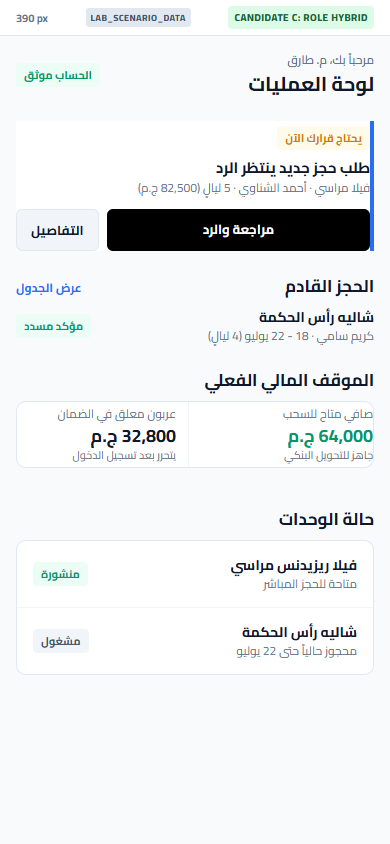
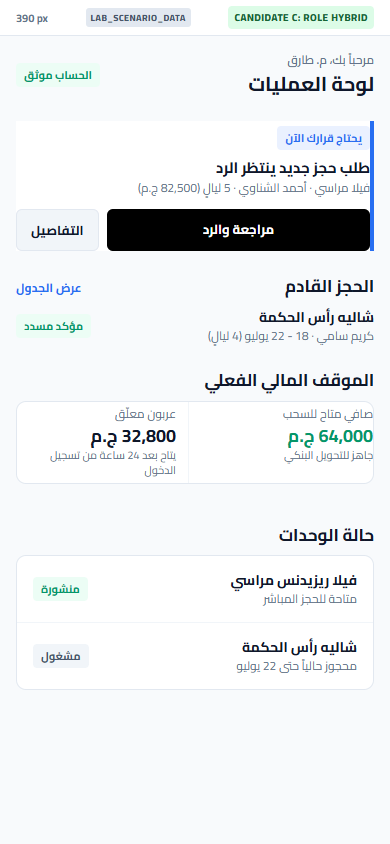
fix(design): repair Phase 4E evidence and product truth

diff --git a/DESIGN_SYSTEM/PILOTS/structural-system-pilot-01/index.html b/DESIGN_SYSTEM/PILOTS/structural-system-pilot-01/index.html
@@ -45,8 +45,8 @@
       --border-divider: #F1F5F9;
       --status-success: #059669;
       --status-success-bg: #ECFDF5;
-      --status-pending: #D97706;
-      --status-pending-bg: #FFFBEB;
+      --status-pending: var(--accent-blue);
+      --status-pending-bg: var(--accent-blue-soft);
       --status-danger: #DC2626;
       --status-danger-bg: #FEF2F2;
 
@@ -233,6 +233,7 @@
     body.embed .viewport-frame.vp-390 { width: 390px !important; min-width: 390px !important; max-width: 390px !important; }
     body.embed .viewport-frame.vp-430 { width: 430px !important; min-width: 430px !important; max-width: 430px !important; }
     body.embed .viewport-frame.vp-1440 { width: 1440px !important; min-width: 1440px !important; max-width: 1440px !important; }
+    body.embed.scroll-quote .viewport-frame { top: -550px !important; }
 
     /* Frame Info Header (Simulation info) */
     .frame-status-bar {
@@ -864,9 +865,9 @@
               <div class="t-supporting" style="font-size: 11px;">جاهز للتحويل البنكي</div>
             </div>
             <div style="padding: 4px 0; border-right: 1px solid var(--border-divider); padding-right: 12px;">
-              <div class="t-supporting">عربون معلق في الضمان</div>
+              <div class="t-supporting">عربون معلّق</div>
               <div class="t-numeric" style="font-size: 18px; margin-top: 2px;">32,800 ج.م</div>
-              <div class="t-supporting" style="font-size: 11px;">يتحرر بعد تسجيل الدخول</div>
+              <div class="t-supporting" style="font-size: 11px;">يتاح بعد 24 ساعة من تسجيل الدخول</div>
             </div>
           </div>
         </div>
@@ -1078,10 +1079,11 @@
     let currentScale = '100';
     let isStress = false;
     let isEmbed = false;
+    let isScrollQuote = false;
 
     function applyState() {
       // Body Candidate class
-      document.body.className = `cand-${currentCandidate} scale-${currentScale}${isEmbed ? ' embed' : ''}`;
+      document.body.className = `cand-${currentCandidate} scale-${currentScale}${isEmbed ? ' embed' : ''}${isScrollQuote ? ' scroll-quote' : ''}`;
 
       // Candidate button states
       document.querySelectorAll('[data-candidate]').forEach(btn => {
@@ -1182,6 +1184,7 @@
     if (params.get('scale')) currentScale = params.get('scale');
     if (params.get('stress')) isStress = (params.get('stress') === '1' || params.get('stress') === 'true');
     if (params.get('embed') === '1') isEmbed = true;
+    if (params.get('scroll') === 'quote') isScrollQuote = true;
     if (params.get('radius')) {
       document.documentElement.style.setProperty('--custom-radius', `${params.get('radius')}px`);
     }

diff --git a/DESIGN_SYSTEM/PILOTS/structural-system-pilot-01/EVIDENCE_MANIFEST.md b/DESIGN_SYSTEM/PILOTS/structural-system-pilot-01/EVIDENCE_MANIFEST.md
@@ -31,9 +31,9 @@
 | 16 | `stress_text_scale_200.png` | Customer | C | 390×844 | 200% | Normal | True 200% text-scale stress test. Cairo Profile B scales to 2× size; words wrap gracefully onto multiple lines; zero text clipping or container overflow. | PASS |
 | 17 | `stress_long_arabic_390.png` | Customer | C | 390×844 | 100% | Stress | Extreme Arabic copy stress: 4-line property title, multi-line destination string, 37,000 ج.م nightly price, long description. Layout handles extreme copy smoothly. | PASS |
 | 18 | `stress_reflow_360_width.png` | Owner | C | 360×800 | 100% | Stress | Owner queue under 360px width with stress copy and multi-line metadata. Action buttons reflow without horizontal clipping or content trapping; controlled Web reflow preserved visible layout; native touch target acceptance (~44pt iOS / ~48dp Android) is not established by this Web evidence and is `DEFERRED_TO_4I`. | PASS |
-| 19 | `radius_comparison_10_customer_390.png` | Customer | C | 390×844 | 100% | Normal | Bounded radius comparison: Customer quote container at 10px radius. Demonstrates valid close alternative with slightly crisper geometry. | EVALUATED_COMPARATOR |
-| 20 | `radius_comparison_12_customer_390.png` | Customer | C | 390×844 | 100% | Normal | Bounded radius comparison: Customer quote container at 12px radius. Balanced provisional system tie-breaker providing comfortable contour distinct from 6px buttons and 8px fields without generic rounded-SaaS bubbling. | PASS (Selected 12px Provisional) |
-| 21 | `radius_comparison_16_customer_390.png` | Customer | C | 390×844 | 100% | Normal | Bounded radius comparison: Customer quote container at 16px radius. Demonstrates materially rounder, generic consumer SaaS bubble appearance. | EVALUATED_COMPARATOR |
+| 19 | `radius_comparison_10_customer_390.png` | Customer | C | 390×844 | 100% | Normal | Bounded radius comparison: Customer quote container at 10px radius (scrolled focus via `scroll=quote` targeting the price quote container). Demonstrates valid close alternative with slightly crisper geometry. | EVALUATED_COMPARATOR |
+| 20 | `radius_comparison_12_customer_390.png` | Customer | C | 390×844 | 100% | Normal | Bounded radius comparison: Customer quote container at 12px radius (`CUSTOMER_RADIUS_TARGET: BOOKING / PRICE QUOTE STRUCTURAL CONTAINER`). Balanced provisional system tie-breaker providing comfortable contour distinct from 6px buttons and 8px fields without generic rounded-SaaS bubbling. | PASS (Selected 12px Provisional) |
+| 21 | `radius_comparison_16_customer_390.png` | Customer | C | 390×844 | 100% | Normal | Bounded radius comparison: Customer quote container at 16px radius (`CUSTOMER_RADIUS_TARGET: BOOKING / PRICE QUOTE STRUCTURAL CONTAINER`). Demonstrates materially rounder, generic consumer SaaS bubble appearance. | EVALUATED_COMPARATOR |
 | 22 | `radius_comparison_10_owner_390.png` | Owner | C | 390×844 | 100% | Normal | Bounded radius comparison: Owner grouped container at 10px radius. Valid close alternative; compact density with slightly sharper corner geometry. | EVALUATED_COMPARATOR |
 | 23 | `radius_comparison_12_owner_390.png` | Owner | C | 390×844 | 100% | Normal | Bounded radius comparison: Owner grouped container at 12px radius. Balanced provisional system tie-breaker; clean interior row margins; comfortable contour within 16px page margins. | PASS (Selected 12px Provisional) |
 | 24 | `radius_comparison_16_owner_390.png` | Owner | C | 390×844 | 100% | Normal | Bounded radius comparison: Owner grouped container at 16px radius. Materially rounder; higher corner encroachment on dense repeated list rows. | EVALUATED_COMPARATOR |
@@ -54,3 +54,7 @@
    Pilot rendering reference values (`#FFFFFF`, `#E2E8F0`, `#F8FAFC`) are `CONTROLLED_WEB_PILOT_RENDERING_REFERENCE` only; exact neutral tokens remain `OPEN`.
 6. **Bounded Radius Evaluation (10px vs 12px vs 16px): PASSED.**
    Empirical artifacts 19–24 demonstrate that 10px is a valid close alternative, 12px is a balanced provisional system tie-breaker providing comfortable contour distinct from 6px buttons and 8px fields without generic rounded-SaaS bubbling, while 16px is materially rounder with higher generic-SaaS styling risk in repeated operational groups. Reversible implementation detail; native acceptance deferred to Phase 4I (`NO_MATERIAL_FOUNDER_DECISION_REQUIRED: YES`). Closed as `SYSTEM-EVALUATED PROVISIONAL STRUCTURAL_CONTAINER_RADIUS`.
+7. **Pending Status Badge Treatment: PASSED.**
+   Restrained soft-blue container treatment (`var(--accent-blue-soft)` background with `var(--accent-blue)` text) replaces legacy amber/yellow badge fills across all Owner Home, Owner Queue, and Admin review views. Strictly enforces Founder rule prohibiting yellow/amber/orange boxed UI containers by default.
+8. **Owner Financial Summary Truth: PASSED.**
+   Owner wallet displays truthful 24-hour post-check-in release schedule ("يتاح بعد 24 ساعة من تسجيل الدخول") and truthful state wording ("عربون معلّق"), completely eliminating unapproved escrow and guarantee mechanism phrasing.

diff --git a/DESIGN_SYSTEM/PILOTS/structural-system-pilot-01/STRUCTURAL_EVALUATION.md b/DESIGN_SYSTEM/PILOTS/structural-system-pilot-01/STRUCTURAL_EVALUATION.md
@@ -102,12 +102,18 @@ During empirical pilot implementation and headless screenshot capture, three def
 3. **Defect 3: Metric KPI Over-Rounding on Desktop Admin:**
    - *Cause:* Admin desktop tables were inheriting 16px mobile card radii.
    - *Fix:* Restricted Admin container radii to 8px (`CONTROLLED_WEB_BOUNDARY_REFERENCE`), maintaining crisp desktop operational rigor and proving mobile card language does not contaminate desktop.
+4. **Defect 4: Customer Radius Viewport Target Alignment:**
+   - *Cause:* Initial 390×844 Customer screenshot ended before the price quote container whose radius changed, producing identical top-page views across 10px, 12px, and 16px.
+   - *Fix:* Added deterministic scrolled capture targeting (`CUSTOMER_RADIUS_TARGET: BOOKING / PRICE QUOTE STRUCTURAL CONTAINER` via `scroll=quote`). All three radius candidates are now fully and distinctively visible alongside 8px inputs and 6px CTA button, with unique blob SHAs.
+5. **Defect 5: Amber/Yellow Pending Badge & Escrow Wording:**
+   - *Cause:* Pilot CSS used `#D97706` / `#FFFBEB` amber fills on pending badges (violating the ban on yellow/amber/orange boxed UI), and wallet copy used incomplete check-in release and unapproved escrow phrasing.
+   - *Fix:* Replaced pending badge fill with compliant restrained soft-blue (`var(--accent-blue-soft)` / `var(--accent-blue)`), and updated Owner wallet copy to state truthful 24-hour delay ("يتاح بعد 24 ساعة من تسجيل الدخول") with state language ("عربون معلّق").
 
 ---
 
 ## 4. Bounded Structural Radius Evaluation & Closure
 
-To close the implementation-level container radius without burdening the Founder, a controlled evidence check evaluated Candidate C across radius values (`10px`, `12px`, `16px`) using the same viewport (390×844), typography (Cairo Profile B), page insets (16px), and content:
+To close the implementation-level container radius without burdening the Founder, a controlled evidence check evaluated Candidate C across radius values (`10px`, `12px`, `16px`) using the same viewport (390×844), typography (Cairo Profile B), page insets (16px), and content (`CUSTOMER_RADIUS_TARGET: BOOKING / PRICE QUOTE STRUCTURAL CONTAINER`):
 
 | Radius Candidate | Customer Decision Unit | Owner Grouped Unit | Visual System Coherence | Verdict |
 |---|---|---|---|---|

diff --git a/DESIGN_SYSTEM/PILOTS/structural-system-pilot-01/DESIGN_COURT_REPORT.md b/DESIGN_SYSTEM/PILOTS/structural-system-pilot-01/DESIGN_COURT_REPORT.md
@@ -197,5 +197,5 @@ frontend-design-wrapper:  NOT_CONSULTED
 - **Candidate B (Option B):** `ELIMINATED_BY_HARD_GATE` (`REJECTED_COMPARATOR`).
 
 ### Reversible Implementation Details Closed via Controlled Evidence:
-- **Structural Container Radius:** Evaluated via bounded comparison across 6 screenshots (10px vs 12px vs 16px). Confirmed 10px is a valid close alternative, 12px is a balanced provisional system tie-breaker distinct from 6px buttons and 8px fields without generic rounded-SaaS bubbling, while 16px is materially rounder with higher generic-SaaS styling risk in repeated operational groups. Recorded as `12px` (`SYSTEM-EVALUATED PROVISIONAL STRUCTURAL_CONTAINER_RADIUS`; `NO_MATERIAL_FOUNDER_DECISION_REQUIRED: YES`).
+- **Structural Container Radius:** Evaluated via bounded comparison across 6 controlled screenshots (10px vs 12px vs 16px; `CUSTOMER_RADIUS_TARGET: BOOKING / PRICE QUOTE STRUCTURAL CONTAINER` with unique empirical SHAs). Confirmed 10px is a valid close alternative, 12px is a balanced provisional system tie-breaker distinct from 6px buttons and 8px fields without generic rounded-SaaS bubbling, while 16px is materially rounder with higher generic-SaaS styling risk in repeated operational groups. Recorded as `12px` (`SYSTEM-EVALUATED PROVISIONAL STRUCTURAL_CONTAINER_RADIUS`; `NO_MATERIAL_FOUNDER_DECISION_REQUIRED: YES`).
 - **Open / Deferred Items Preserved:** Exact native stroke width remains `OPEN` / `DEFERRED_TO_4I`; exact neutrals remain `OPEN` (pilot hex references are `CONTROLLED_WEB_PILOT_RENDERING_REFERENCE` only); native touch acceptance remains `DEFERRED_TO_4I`; navigation and overlay geometry remain `DEFERRED_TO_4F`.
